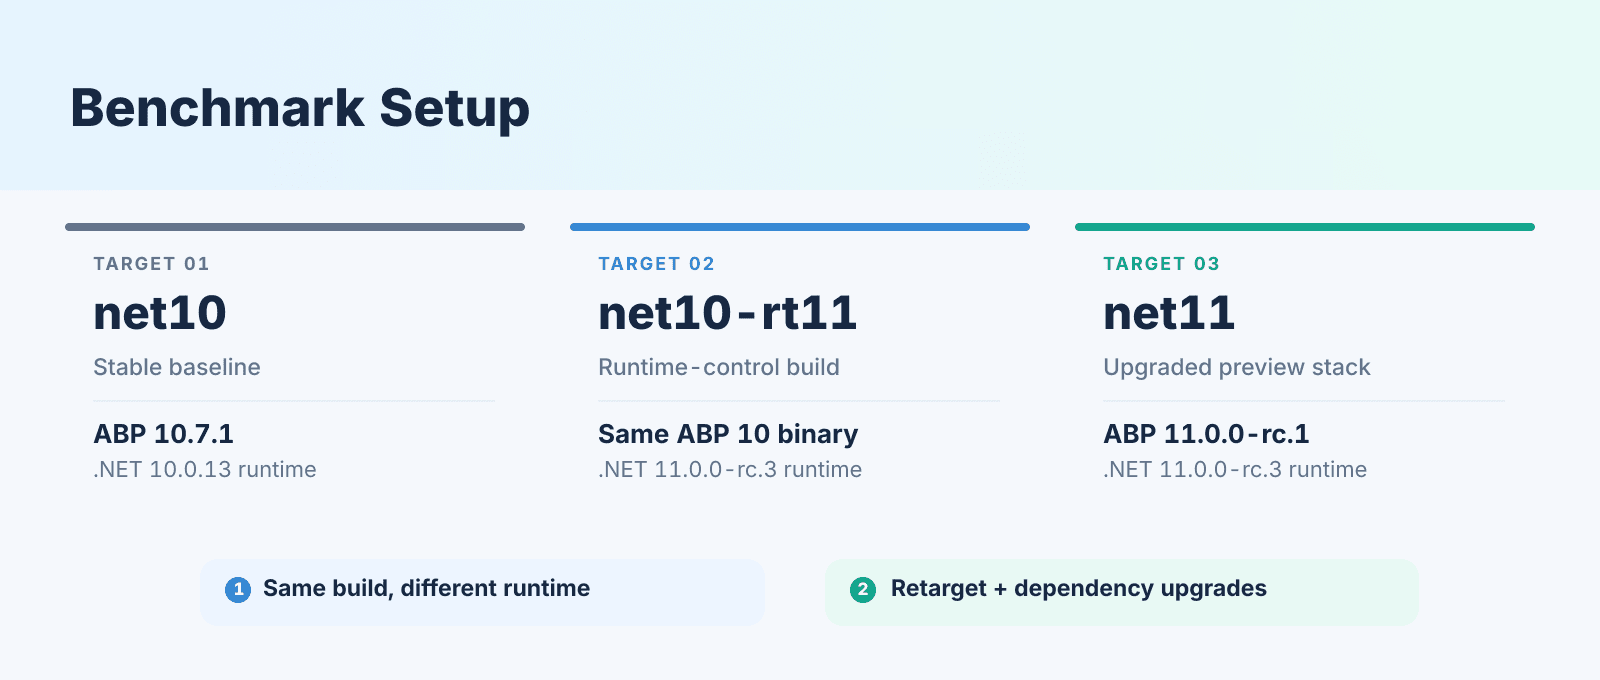
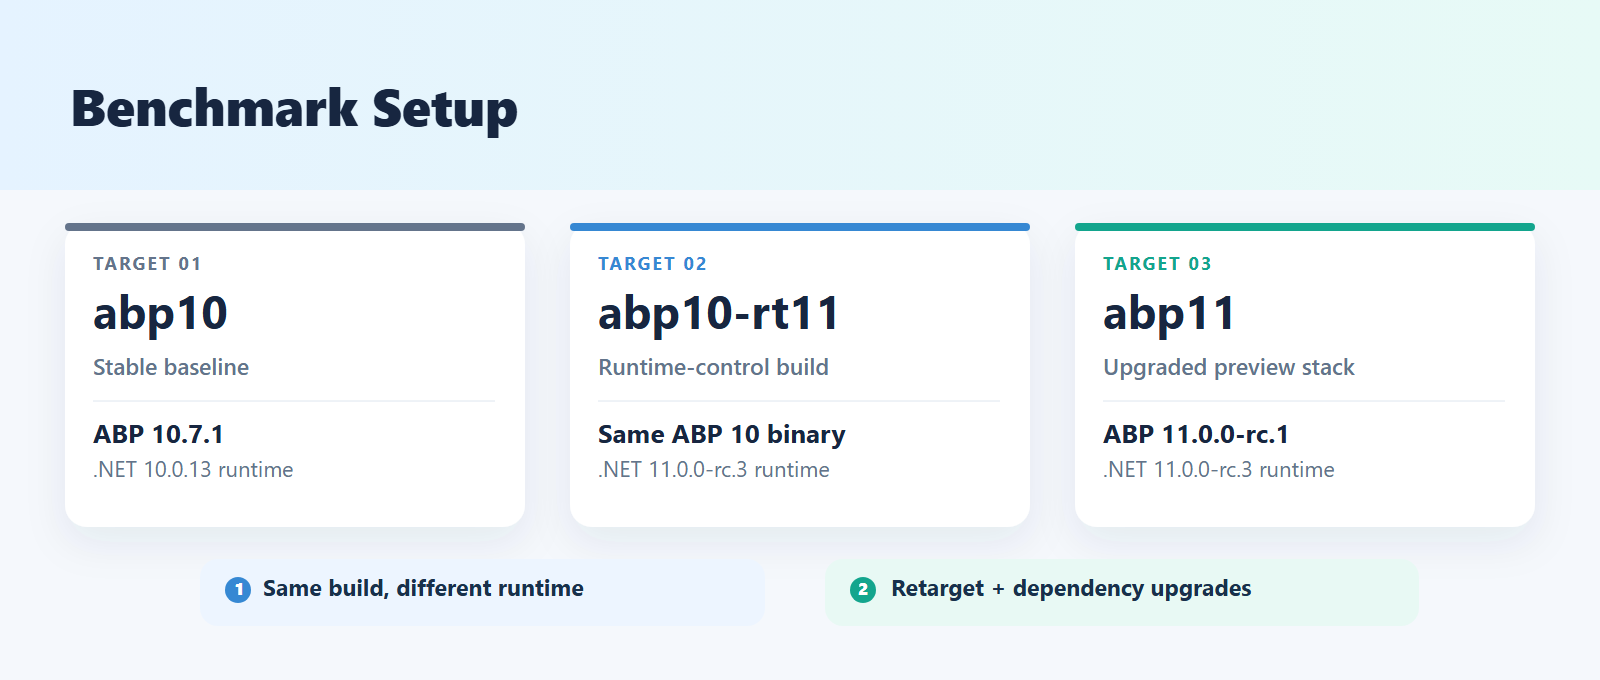
docs: update .NET 10 vs .NET 11 benchmark article
- Present the results as the upgrade from ABP 10 on .NET 10 to ABP 11 on .NET 11.
- Use the abp10, abp10-rt11 and abp11 target names in tables and commands.
- Describe the benchmarked apps as template-based.
- Add the same-throughput result and the feature-group result (8 of 9 groups with lower p95).
- Round web-process CPU to whole percentages (55% → 50%, 5 pp lower).
- Regenerate the setup and resource-usage charts.

diff --git a/docs/en/Community-Articles/2026-11-09-benchmarking-dotnet10-vs-dotnet11/post.md b/docs/en/Community-Articles/2026-11-09-benchmarking-dotnet10-vs-dotnet11/post.md
@@ -2,19 +2,19 @@
 
 How does an ABP application perform after upgrading from **ABP 10 on .NET 10** to **ABP 11 on .NET 11**?
 
-To investigate, I load-tested two **otherwise empty ABP Framework MVC applications**: **ABP 10.7.1 on .NET 10.0.13** (stable baseline) and **ABP 11.0.0-rc.1 on .NET 11.0.0-rc.3** (preview upgrade). Both exercised the same authentication, identity, role, permission, tenant, settings, and localization operations against PostgreSQL. I also ran the unchanged ABP 10 application on the .NET 11 runtime as a **supporting control**, not as a third framework version under comparison.
+To investigate, I load-tested two **template-based ABP Framework MVC applications**: **ABP 10.7.1 on .NET 10.0.13** (stable baseline) and **ABP 11.0.0-rc.1 on .NET 11.0.0-rc.3** (preview upgrade). Both exercised the same authentication, identity, role, permission, tenant, settings, and localization operations against PostgreSQL. I also ran the unchanged ABP 10 application on the .NET 11 runtime as a **supporting control**, not as a third framework version under comparison.
 
 The **main comparison is ABP 10 + .NET 10 versus ABP 11 + .NET 11**, measured by **response time, throughput, errors, CPU, and memory** under the same workload. The additional runtime-control run helps interpret the observed difference, but does not change the two applications being compared.
 
 ## Results at a glance
 
-Across **27 measured runs** (the two main applications plus a supporting runtime-control configuration, tested at three load levels with three repetitions each), the ABP 11 + .NET 11 application produced the following results relative to ABP 10 + .NET 10 at the highest routinely tested load (**6 it/s**, or six complete scenario iterations per second, resulting in approximately **479 HTTP requests per second**):
+Upgrading from **ABP 10 on .NET 10** to **ABP 11 on .NET 11** lowered response times and resource use at the same load. The numbers below come from **27 measured runs** (three configurations, three load levels, three repetitions each) and show the highest routinely tested load: **6 it/s**, or six complete scenario iterations per second, which is about **479 HTTP requests per second**.
 
 - **9.4% lower HTTP p95 latency:** **38.3 ms → 34.7 ms**.
-- **4.4 percentage points lower normalized web-process CPU:** **55.0% → 50.6%** (about 8% lower in relative terms).
+- **5 percentage points lower normalized web-process CPU:** **55% → 50%**.
 - **44 MB lower reported managed GC heap size:** **355 MB → 311 MB**.
 - **21 MB lower process working set:** **759 MB → 738 MB**.
-- **Supporting runtime check:** the unchanged ABP 10 application running on .NET 11 recorded **34.5 ms p95**, close to the upgraded application’s **34.7 ms**.
+- **The same throughput:** **478.1 → 478.8 HTTP requests per second**.
 
 These results come from one controlled environment and workload, using **.NET 11.0.0-rc.3 and ABP 11.0.0-rc.1**. They are observations, not guaranteed improvements for all applications. In particular, **a lower p95 at a fixed offered load does not prove a higher maximum throughput**.
 
@@ -24,19 +24,19 @@ The applications were created from the same ABP MVC/Razor Pages template with **
 
 | Configuration | Application and target framework | Selected .NET runtime | Purpose |
 |---|---|---|---|
-| `net10` | ABP **10.7.1**, `net10.0` | **10.0.13** | Stable baseline |
-| `net10-rt11` | **Same published ABP 10 binary**, `net10.0` | **11.0.0-rc.3** | Runtime-control configuration |
-| `net11` | ABP **11.0.0-rc.1**, `net11.0` | **11.0.0-rc.3** | Upgraded preview stack |
+| `abp10` | ABP **10.7.1**, `net10.0` | **10.0.13** | Stable baseline |
+| `abp10-rt11` | **Same published ABP 10 binary**, `net10.0` | **11.0.0-rc.3** | Runtime-control configuration |
+| `abp11` | ABP **11.0.0-rc.1**, `net11.0` | **11.0.0-rc.3** | Upgraded preview stack |
 
-Throughout the charts and tables, `net10` is the **ABP 10 + .NET 10 baseline** and `net11` is the **ABP 11 + .NET 11 upgrade**. The additional `net10-rt11` series is a **supporting runtime-control measurement**.
+Throughout the charts and tables, `abp10` is the **ABP 10 + .NET 10 baseline** and `abp11` is the **ABP 11 + .NET 11 upgrade**. The additional `abp10-rt11` series is a **supporting runtime-control measurement**.
 
 ![Three-target benchmark design](assets/01-three-target-design.png)
 
-The middle configuration uses the exact same compiled .NET 10 application with a different runtime. The **primary comparison** is between `net10` and `net11`: the stable ABP 10/.NET 10 stack versus the preview ABP 11/.NET 11 stack. As a secondary check, `net10-rt11` shows what happens when the **same ABP 10 application binary** runs on the newer runtime. Moving from `net10-rt11` to `net11` upgrades not only ABP itself, but also the target framework (`net11.0`), EF Core (**10.0.11** to **11.0.0-rc.3**), the Npgsql EF Core provider, and the theme packages.
+The middle configuration uses the exact same compiled .NET 10 application with a different runtime. The **primary comparison** is between `abp10` and `abp11`: the stable ABP 10/.NET 10 stack versus the preview ABP 11/.NET 11 stack. As a secondary check, `abp10-rt11` shows what happens when the **same ABP 10 application binary** runs on the newer runtime. Moving from `abp10-rt11` to `abp11` upgrades not only ABP itself, but also the target framework (`net11.0`), EF Core (**10.0.11** to **11.0.0-rc.3**), the Npgsql EF Core provider, and the theme packages.
 
 ## 2. The application workflow under test
 
-I used **Grafana k6** to replay a recorded HTTP workflow through the built-in pages and features of an otherwise empty ABP application. **k6 Studio** captured the initial browser traffic; the scenario was then adapted to manage dynamic authentication tokens, cookies, and entity identifiers reliably under load. The tool choice matters mainly because the same workflow needed to run consistently against every configuration.
+I used **Grafana k6** to replay a recorded HTTP workflow through the built-in pages and features of a template-based ABP application. **k6 Studio** captured the initial browser traffic; the scenario was then adapted to manage dynamic authentication tokens, cookies, and entity identifiers reliably under load. The tool choice matters mainly because the same workflow needed to run consistently against every configuration.
 
 ### Making the recorded scenario replayable
 
@@ -93,38 +93,38 @@ The table summarizes the repeated measurements at three load levels. **Arrival r
 
 | Arrival rate | Configuration | HTTP req/s | Avg (ms) | p95 (ms) | p99 (ms) | HTTP errors |
 |---|---|---:|---:|---:|---:|---:|
-| **2 it/s** | `net10` | 160.8 | 10.8 | 34.0 | 78.7 | 0.00% |
-| | `net10-rt11` | 160.5 | 10.6 | 33.0 | 77.1 | 0.00% |
-| | `net11` | 160.5 | 10.7 | 33.7 | 80.0 | 0.00% |
-| **4 it/s** | `net10` | 321.1 | 10.0 | 30.2 | 77.8 | 0.00% |
-| | `net10-rt11` | 321.4 | 9.4 | 27.8 | 77.0 | 0.00% |
-| | `net11` | 321.1 | 9.6 | 28.8 | 77.2 | 0.00% |
-| **6 it/s** | `net10` | 478.1 | 12.8 | 38.3 | 102.1 | 0.00% |
-| | `net10-rt11` | 479.1 | 11.7 | 34.5 | 97.0 | 0.00% |
-| | `net11` | 478.8 | 11.6 | **34.7** | **96.7** | 0.00% |
+| **2 it/s** | `abp10` | 160.8 | 10.8 | 34.0 | 78.7 | 0.00% |
+| | `abp10-rt11` | 160.5 | 10.6 | 33.0 | 77.1 | 0.00% |
+| | `abp11` | 160.5 | 10.7 | 33.7 | 80.0 | 0.00% |
+| **4 it/s** | `abp10` | 321.1 | 10.0 | 30.2 | 77.8 | 0.00% |
+| | `abp10-rt11` | 321.4 | 9.4 | 27.8 | 77.0 | 0.00% |
+| | `abp11` | 321.1 | 9.6 | 28.8 | 77.2 | 0.00% |
+| **6 it/s** | `abp10` | 478.1 | 12.8 | 38.3 | 102.1 | 0.00% |
+| | `abp10-rt11` | 479.1 | 11.7 | 34.5 | 97.0 | 0.00% |
+| | `abp11` | 478.8 | 11.6 | **34.7** | **96.7** | 0.00% |
 
 ![HTTP p95 latency at different offered-load levels](assets/02-http-p95-by-load.png)
 
-At light load, the two ABP versions performed similarly. As the load increased, **ABP 11 on .NET 11 generally showed lower p95 response times** than ABP 10 on .NET 10. At the highest repeated load, the upgraded application had **9.4% lower p95 latency** while handling essentially the same number of HTTP requests per second. The supporting runtime-control series followed a similar pattern.
+At light load, the two ABP versions performed similarly. As the load increased, **ABP 11 on .NET 11 generally showed lower p95 response times** than ABP 10 on .NET 10. At the highest repeated load, the upgraded application had **9.4% lower p95 latency** while handling essentially the same number of HTTP requests per second.
 
 ### 4.2 Performance and resource usage
 
 These measurements were taken at the **highest repeated load** (`6 it/s`, six scenario iterations started per second):
 
-| Metric | `net10` | `net10-rt11` | `net11` |
+| Metric | `abp10` | `abp10-rt11` | `abp11` |
 |---|---:|---:|---:|
-| Web-process CPU | 55.0% | 50.3% | 50.6% |
+| Web-process CPU | 55% | 50% | 50% |
 | Process working set | 759 MB | 739 MB | 738 MB |
 | Reported managed GC heap | 355 MB | 321 MB | 311 MB |
 | HTTP p95 | 38.3 ms | 34.5 ms | 34.7 ms |
 
 ![Comparison of response time, CPU, and memory usage](assets/03-performance-resource-usage.png)
 
-The CPU percentages are **normalized to the web process's eight available logical processors**, not the entire machine. Thus **55.0% to 50.6%** is **4.4 percentage points**, or approximately **8% less CPU in relative terms**. Similarly, the GC number is a **sampled managed-heap-size counter**: a 44 MB difference in that counter is not the same as 44 MB fewer allocations, and it is not the total process memory footprint.
+The CPU percentages are **normalized to the web process's eight available logical processors**, not the entire machine. Thus **55% to 50%** is a drop of **5 percentage points**. Similarly, the GC number is a **sampled managed-heap-size counter**: a 44 MB difference in that counter is not the same as 44 MB fewer allocations, and it is not the total process memory footprint.
 
 ### 4.3 Performance across application features
 
-Looking at the application's individual features, **.NET 11 showed lower p95 response times in most groups**, including user, role, and tenant management. Tenant management, user operations, and login had the highest request latencies overall.
+Looking at the application's individual features, **ABP 11 on .NET 11 showed lower p95 response times in eight of the nine groups**, including user, role, and tenant management; only the settings group stayed flat (16.0 ms to 16.2 ms). Tenant management, user operations, and login had the highest request latencies overall.
 
 ![HTTP p95 latency by functional group](assets/04-application-feature-performance.png)
 
@@ -134,11 +134,11 @@ The chart compares **HTTP-request p95 values within each feature group**, rather
 
 In a separate, repeated higher-load test at **7 it/s** (seven scenario iterations per second, approximately **557 HTTP requests per second**), p95 latency remained close: **39.5 ms** for ABP 10 + .NET 10, **40.2 ms** for ABP 11 + .NET 11, and **40.3 ms** for the supporting ABP 10 + .NET 11 runtime control. At **8 it/s**, an exploratory test showed sharply higher latency and dropped iterations; because that load level was not tested repeatedly, it was **not used to rank maximum throughput**.
 
-## 5. Interpreting the ABP 10 vs ABP 11 results
+## 5. What the upgrade to ABP 11 gives
 
-The primary finding is that **ABP 11.0.0-rc.1 on .NET 11 performed at least comparably to, and generally better than, ABP 10.7.1 on .NET 10** in the tested application workflows. At the highest repeated load, its p95 HTTP response time was **34.7 ms**, compared with **38.3 ms** for the stable baseline, while CPU and memory measurements were also lower.
+Upgrading from **ABP 10.7.1 on .NET 10** to **ABP 11.0.0-rc.1 on .NET 11** gave **lower p95 response times at the same throughput**. At the highest repeated load, p95 fell from **38.3 ms** to **34.7 ms**, and CPU and memory use were lower as well. At light load (2 it/s) the two stacks performed similarly.
 
-The supporting runtime-control test helps explain the result: running the **unchanged ABP 10 binary on .NET 11** produced a similar **34.5 ms p95**. This suggests the newer runtime contributed to the improvement and that the full ABP 11 preview stack **did not show a substantial additional performance penalty in this workload**.
+The runtime-control test shows where the gain comes from: the **unchanged ABP 10 binary on .NET 11** reached a similar **34.5 ms p95**. The gain therefore appears to come with the move to .NET 11, and the ABP 11 preview packages **did not add a substantial performance penalty in this workload**.
 
 ## 6. Scope and limitations
 
@@ -154,15 +154,15 @@ All benchmark application source code, k6 load-testing scenarios, PowerShell run
 docker compose up -d
 ./scripts/publish.ps1
 
-./scripts/db.ps1 -Target net10 -Action seed
-./scripts/db.ps1 -Target net11 -Action seed
+./scripts/db.ps1 -Target abp10 -Action seed
+./scripts/db.ps1 -Target abp11 -Action seed
 
 $env:BENCH_PASSWORD = '<seeded_admin_password>'
 
 ./scripts/run-bench.ps1 `
     -Mode fixed `
     -Rates 2,4,6 `
-    -Targets net10,net10-rt11,net11 `
+    -Targets abp10,abp10-rt11,abp11 `
     -Repeats 3 `
     -Batch article-comparison
 
@@ -173,6 +173,6 @@ The `-Batch` value is only a folder name for organizing output, not a distinct b
 
 ## Conclusion
 
-In this benchmark, **ABP 11.0.0-rc.1 on .NET 11 outperformed ABP 10.7.1 on .NET 10 across most tested application features**. At the highest repeated load, the upgraded stack delivered **9.4% lower HTTP p95 latency**, with lower CPU and measured memory usage at essentially the same throughput.
+Upgrading to **ABP 11.0.0-rc.1 on .NET 11** lowered **p95 latency by 9.4%** at the highest repeated load (38.3 ms → 34.7 ms), with lower CPU and memory use at the same throughput. Eight of the nine tested feature groups were faster as well.
 
-As a supporting check, the unchanged ABP 10 application also improved when run on the .NET 11 runtime. Its results were close to those of ABP 11, suggesting that **the ABP 11 preview upgrade preserved the observed runtime-level gains without a substantial additional performance penalty in this workload**. These findings apply to the tested applications and preview dependencies, not to every ABP deployment.
+The unchanged ABP 10 application also improved on the .NET 11 runtime (34.5 ms p95), so the gain comes with the move to .NET 11 and the ABP 11 preview upgrade added no substantial penalty. These findings apply to the tested applications and preview dependencies, not to every ABP deployment.
